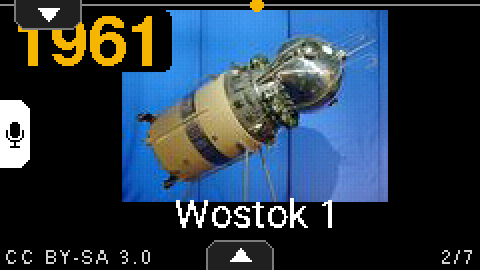
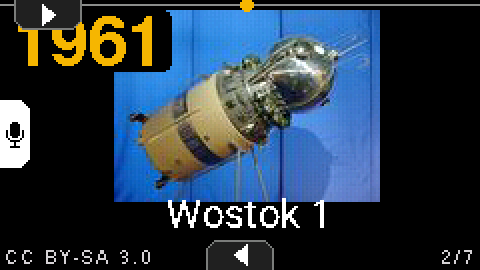
Point the timeline tabs left and right, the way the years run

diff --git a/USERGUIDE.md b/USERGUIDE.md
@@ -207,7 +207,7 @@ Good to know:
 
 Zitro can show much more than pictures. You don't choose a mode: just ask. Everything shown comes from a real source or exact math, and the bottom line names it. If there's nothing, you get the usual picture. Button A always asks something new.
 
-When a result opens, small tabs at the buttons show what each one does: a microphone at Button A for a new question, a magnifier for zoom, lines of text for the written answer, arrows for next and back. After 3 seconds they disappear so you can enjoy the whole picture. Press Button B or C and they show up again for a moment.
+When a result opens, small tabs at the buttons show what each one does: a microphone at Button A for a new question, a magnifier for zoom, lines of text for the written answer, arrows for next and back. On a timeline the arrows point left and right, the way the years run. After 3 seconds they disappear so you can enjoy the whole picture. Press Button B or C and they show up again for a moment.
 
 Proteins, anatomy, recipes, timelines and the detailed globe load their data from zitro.spot, so they need WiFi.
 
